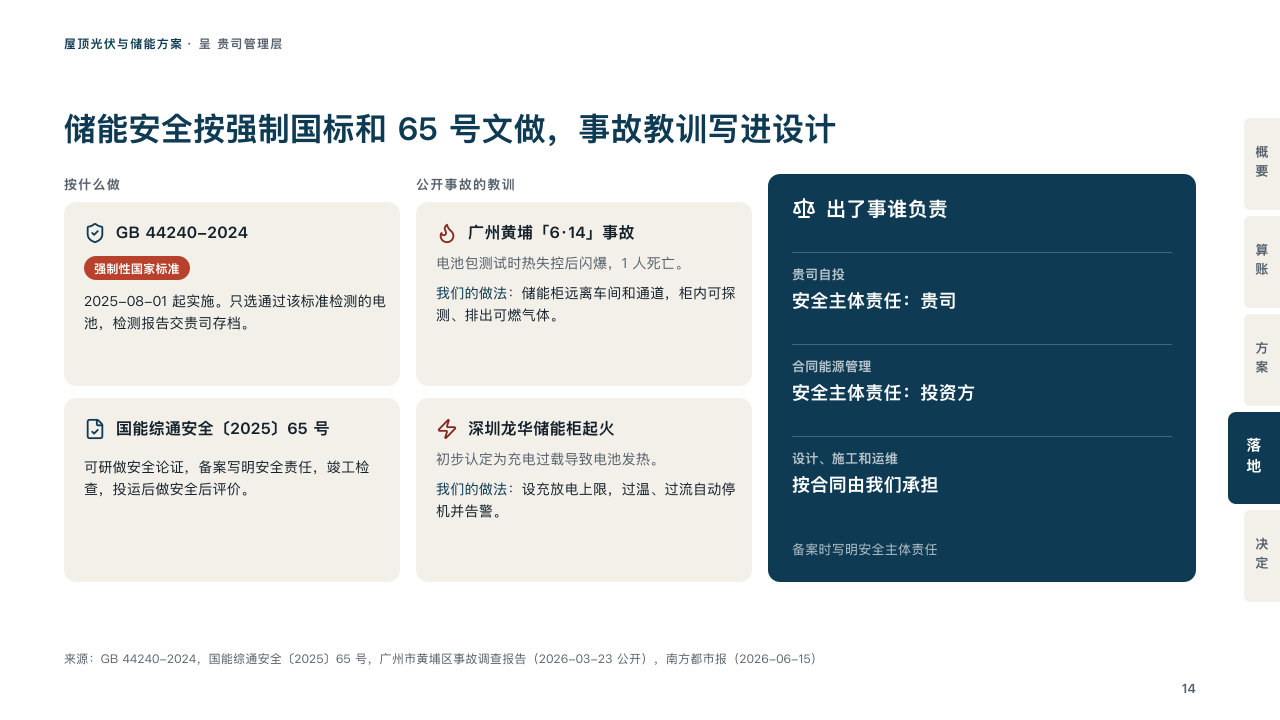
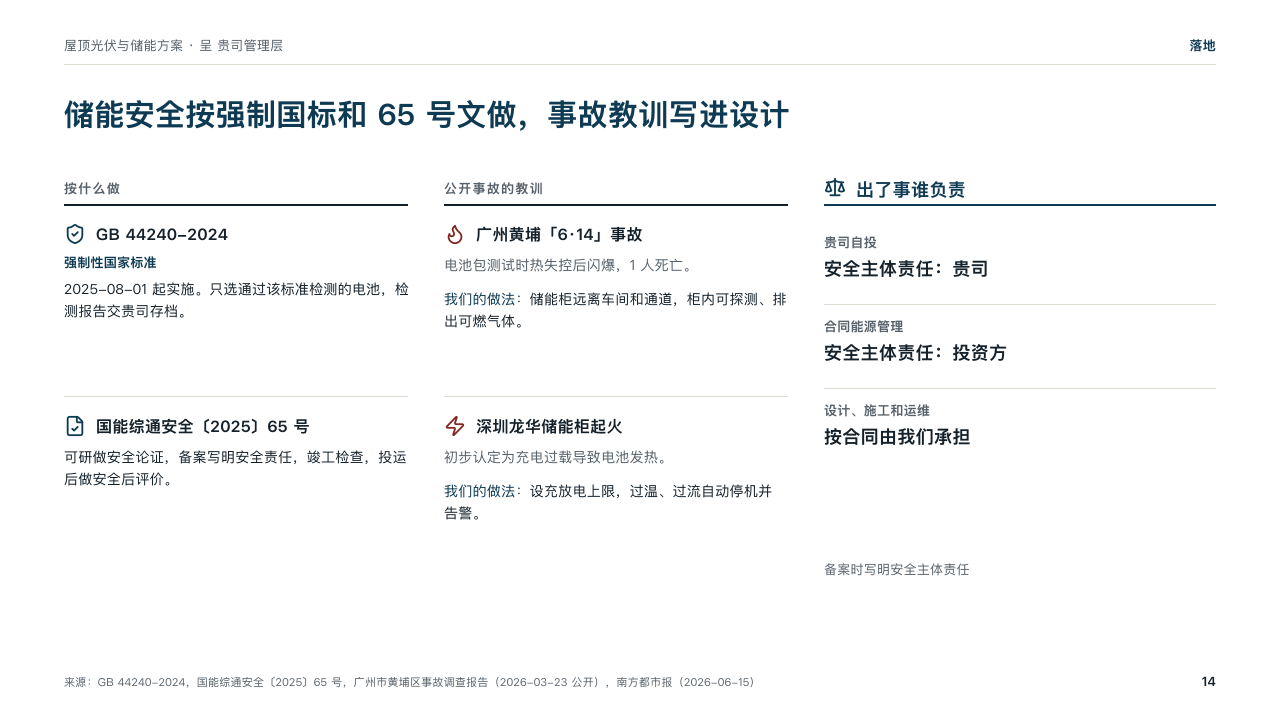
docs(proposal): describe the binder parts as print
The design notes of the binder faces, the proposal motif and the fifteen binder compositions still described the first board: index tabs, sand cards, chips, discs and a brick-red button. They now describe the pages as set: a running head naming the part, ruled tables and columns between hairlines, the kind of source as a small grey column, square boxes and a line to fill in on the close. Each notes that its board is the first round's. The engine screenshots are shot again from the Chinese showcase deck with pptwise preview and rsvg-convert at 1280 by 720.

The round records why shared component cards are white in a hairline. Comments that still named the tabs or a numbered stage are brought in line, with no change to behaviour.

diff --git a/src/audit/svg-audit.ts b/src/audit/svg-audit.ts
@@ -17,7 +17,7 @@ interface Rect extends Box { h: number }
 // The translate and uniform scale of an element's `transform`, the two forms
 // the content layer composes boxes with (bento-card content scale-to-fit,
 // icon scale), reduced to one offset and one scalar. A turn (`rotate`, which
-// stamps, notes and proposal's binder tabs do draw) is not in this
+// stamps and notes do draw) is not in this
 // reduction: `auditSvgMarkup` below walks the whole transform list as an
 // affine map instead, and `deck-audit.ts` sets a shape under any other form
 // apart (`hasUnmodelledTransform`).
@@ -194,7 +194,7 @@ export function auditSvgMarkup(markup: string): OverflowIssue[] {
     // The element's own transform list composed under its parent's, in the
     // SVG order: a component scaled to fit (bento cards) gets correctly
     // scaled text metrics, and a line turned about a point (a stamp, a
-    // binder's tab) is read where it is drawn rather than where it would
+    // name set up an edge) is read where it is drawn rather than where it would
     // stand unturned.
     const m = compose(parent, parseAffine(el))
 

diff --git a/src/audit/svg-audit.test.tsx b/src/audit/svg-audit.test.tsx
@@ -148,10 +148,10 @@ describe("auditSvgMarkup", () => {
     expect(issues[0].kind).toBe("h-overflow")
   })
 
-  // A name set up a binder's tab at the right edge (proposal's Latin tabs)
-  // turns a quarter about its own middle: the line runs down the page, not
-  // across it. Read unturned, "Delivery" ran x=[1227,1288] off a page its
-  // glyphs never leave, on every content page of the English deck.
+  // A name set up the right edge turns a quarter about its own middle: the
+  // line runs down the page, not across it. Read unturned, "Delivery" ran
+  // x=[1227,1288] off a page its glyphs never leave (proposal's English deck
+  // drew such names on its old index tabs).
   it("reads a line turned about a point where it is drawn, down the page", () => {
     const turned = (angle: number) =>
       auditSvgMarkup(wrap(`<g transform="rotate(${angle} 1258 200)"><text x="1258" y="200" font-size="13" text-anchor="middle">Delivery</text></g>`))

diff --git a/src/layouts/ending-binder-ending.tsx b/src/layouts/ending-binder-ending.tsx
@@ -16,7 +16,7 @@ type Paragraph = Extract<Component, { type: "paragraph" }>
  * binder-ending：提案书的结尾，请客户定的事，proposal 2026-10 印刷版定稿（p19）。
  *
  * 顶上和内容页同一行书眉：左端是页面的 `kicker`（deck 的标签，13px 灰），右端
- * 是这一页所在的段落（页面的 `stage`，「五 决定」，石油蓝粗体），下面一条细线。
+ * 是这一页所在的段落（页面的 `stage` 在 `course` 里的名字，「决定」，不带序号，石油蓝粗体），下面一条细线。
  * 标题和内容页的论断同一写法：30px 粗体石油蓝，一行放得下就一行。下面是要客户
  * 定的事（页面的 `numbered_cards`，两到四件），一件一行：上面一条 2px 墨线，
  * 行间发丝线，每行左边砖红两位编号（「01」，28px 粗体），中间这件事 20px 粗体

diff --git a/src/audit/deck-audit.ts b/src/audit/deck-audit.ts
@@ -1698,8 +1698,8 @@ const MODELLED_TRANSFORM_RE = /translate\(\s*-?[\d.]+[\s,]+-?[\d.]+\s*\)|scale\(
  * Whether `el` carries a `transform` this walk does not model.
  * `parseTransform` reduces the whole attribute to `(dx, dy, uniform scale)`
  * and silently ignores everything it doesn't match. The content layer turns
- * only a few lines of text (a stamp, a lesson note, an exhibit label,
- * proposal's binder tabs), which the overflow walk in `svg-audit.ts` reads
+ * only a few lines of text (a stamp, a lesson note, an exhibit label),
+ * which the overflow walk in `svg-audit.ts` reads
  * through its own affine map. Decoration really does rotate shapes:
  * `motif-clinic-motif.tsx`'s `capsule()` emits a filled `<rect>` under
  * `rotate(angle cx cy)` and `motif-almanac-motif.tsx`'s `leafVein()` wraps its

diff --git a/src/layouts/step-aside-boundary.test.tsx b/src/layouts/step-aside-boundary.test.tsx
@@ -192,8 +192,8 @@ const CASES: FaceCase[] = [
   // rally's marquee sheet: the same, in its band x64 to x1216 and y188
   // (under the ticket stub and the claim) to y640.
   { face: "marquee-sheet", Face: MarqueeSheetContent, themeId: "rally", regions: ["face", "declined"] },
-  // proposal's binder sheet: the same, in its band x64 to x1196 and y172
-  // (under the claim, left of the binder's tabs) to y640.
+  // proposal's binder sheet: the same, in its band x64 to x1216 and y176
+  // (under the running head and the claim) to y640.
   { face: "binder-sheet", Face: BinderSheetContent, themeId: "proposal", regions: ["face", "declined"] },
   // thesis's manuscript sheet: the same, in its band x64 to x1216 and y168
   // (under the claim) down to 16px over the notes' rule, or y648 without notes.

diff --git a/design/faces/binder-sheet/README.md b/design/faces/binder-sheet/README.md
@@ -1,19 +1,20 @@
 # binder-sheet
 
-proposal's ordinary content page: the binder's tabs down the right edge with the page's section lit, the claim bold in petrol, the body handed to the shared compositions in the `binder` setting, and the source small at the foot.
+proposal's ordinary content page: a running head naming the part of the deck the page sits in, the claim bold in petrol across the page, the body handed to the shared compositions in the `binder` setting, and the source small at the foot.
 
-Code: [`src/layouts/content-binder-sheet.tsx`](../../../src/layouts/content-binder-sheet.tsx), with the frame (`BinderHead`, `BinderTabsFor`, `BinderStandfirst`, `BinderSource`) in [`src/layouts/binder-shared.tsx`](../../../src/layouts/binder-shared.tsx) and the tabs (`BinderTabs`) in [`src/layouts/compositions/binder.tsx`](../../../src/layouts/compositions/binder.tsx). Used by proposal for every content kind but statement and quote.
+Code: [`src/layouts/content-binder-sheet.tsx`](../../../src/layouts/content-binder-sheet.tsx), with the frame (`BinderHead`, `BinderRunningHead`, `BinderTitle`, `BinderStandfirst`, `BinderSource`) in [`src/layouts/binder-shared.tsx`](../../../src/layouts/binder-shared.tsx). Used by proposal for every content kind but statement and quote.
 
 ## proposal, rooftop solar and storage proposal sample, 2026-10
 
 Settled on every content page. The boards and engine renders are in the composition folders each page links from the round. The round's decisions are in [rounds/2026-10-06-proposal](../../rounds/2026-10-06-proposal/README.md).
 
-**What it looks like.** Down the right edge, from y118 a tab every 98px, the binder's tabs: one a section of the deck's `course`, the page's own section (its `stage`) 52px wide in petrol with its name in white, the others 36px wide on sand with their names in grey. A Chinese name stands one character under another, a Latin name is turned a quarter. The deck's label at the top left and the folio are the motif's. The claim bold at 32/44 in petrol from x64 across 1132px, on one line whenever it fits, its last line ending at y150. A subheading becomes a standfirst at 16/24 in the grey at the body's top. The body runs from y172 to y640 over a source and to y648 without one, and is offered to the compositions in this order: `gains`, `hours`, `regions`, `workings`, `levers`, `cycles`, `drift`, `parts`, `plans`, `precedents`, `safeguards`, `remedies`, `checkpoints`, `quote`, `papers`. A page none of them takes is drawn by the component renderer in the same band. The source at 12/17 in the grey from y650, up to two lines.
+**What it looks like.** Along the top a running head on y36: the deck's label at the left in the grey at 13px (the motif's), and at the right the page's section in petrol bold at 13px, the label of its `stage` in the deck's `course` with no number (「算账」, "Numbers"). A hairline under both on y64 across the measure. The claim bold at 30/42 in petrol from y92 across 1152px, x64 to x1216, on one line whenever it fits, a second line lifting it 20px. A subheading becomes a standfirst at 16/24 in the grey at the body's top. The body runs from y176 to y640 over a source and to y648 without one, and is offered to the compositions in this order: `gains`, `hours`, `regions`, `workings`, `levers`, `cycles`, `drift`, `parts`, `plans`, `precedents`, `safeguards`, `remedies`, `checkpoints`, `quote`, `papers`. A page none of them takes is drawn by the component renderer in the same band, where proposal's tokens keep a card to one white layer inside a hairline with square corners. The source at 11/16 in the grey at the foot's left, its last line on the page number's baseline, y686.
 
-**Why.** A proposal is a binder a client flips through by section. The lit tab says where a page sits before the claim says what it shows.
+**Why.** A printed proposal names its section at the head of every leaf, so a reader who opens it anywhere knows where they are before the claim says what the page shows.
 
 **What it gave up.**
 
-- A page with no `stage`, or a course of more than five sections, carries no tabs, and a course too long for them is declared dropped rather than cut.
+- A page with no `stage`, or a stage the course does not have, leaves the right of the running head empty.
+- The section is named without a number, since a part of the deck may span several stages (the round's decision 17).
 - A page the band cannot hold steps aside to the plain sheet, and is declined when that cannot hold it either.
 - The body takes up to four components.

diff --git a/design/faces/binder-ending/README.md b/design/faces/binder-ending/README.md
@@ -1,6 +1,6 @@
 # binder-ending
 
-proposal's close: the decisions the client is asked to make, each a card with its own boxes, and one brick-red button with the author's words.
+proposal's close: the decisions the client is asked to make, each a ruled row with its own boxes to tick, and a line to fill in for the next step.
 
 Code: [`src/layouts/ending-binder-ending.tsx`](../../../src/layouts/ending-binder-ending.tsx).
 
@@ -12,12 +12,14 @@ Settled on p19. The round's decisions are in [rounds/2026-10-06-proposal](../../
 | :-: | :-: |
 | ![board](proposal.board.png) | ![engine](proposal.engine.png) |
 
-**What it looks like.** The deck's label at the top left (the page's `kicker`) and the tabs with the last section lit. The closing line at 44/60 bold in petrol, its last line ending at y156. Under it the page's `numbered_cards` as two to four cards of sand across the measure, each with its number in the brick red (「01」), the decision at 21/32 bold in two lines at most, a line on it in two lines of 14px grey, a hairline, and a box to tick for each choice of the page's `ballot` (「同意」, 「再议」), or the item's own choices where `ballot.item_choices` gives it some (「自投」, 「EMC」, 「融资租赁」). At the foot a button of the brick red with the page's `paragraph` in bold white (「约踏勘时间」), and the subheading beside it at 16px in the grey.
+The board in the table is the first round's. The print round redrew this page in a design tool outside this folder, and the engine render shows the page as it is set now.
 
-**Why.** A proposal ends on what the client decides. A box per choice makes the decision a mark on the page, and the button is the next step in the author's own words.
+**What it looks like.** The running head as on a content page: the page's `kicker` (the deck's label) at the left at 13px in the grey, the page's section at the right in petrol bold, a hairline under both. The closing line at 30/42 bold in petrol, on one line whenever it fits. Under it the page's `numbered_cards`, two to four decisions, a ruled row each under a 2px ink rule with hairlines between: its number in two digits at 28px bold in the brick red (「01」), the decision at 20px bold with a line on it at 14px in the grey, and at the right an empty square box, 18px with a 1.5px ink outline, for each choice of the page's `ballot` (「同意」, 「再议」), or the item's own choices where `ballot.item_choices` gives it some (「自投」, 「EMC」, 「融资租赁」), each at 16px. Under the rows the page's `paragraph` as a line to fill in: the words before the first blank at 18px bold in petrol, each run of 「＿」 (two or more) a line to write on, the words between at 16px in the ink (「约踏勘时间 ＿＿＿ 年 ＿＿ 月 ＿＿ 日」). A paragraph with no blanks gets one line after its words. The subheading under it at 14px in the grey.
+
+**Why.** A proposal ends on what the client decides. A box per choice makes the decision a mark on the paper, and the line to fill in is the next step in the author's own words, set the way a printed form asks for it.
 
 **What it gave up.**
 
-- No button without a `paragraph`: the face never writes its own words on it.
-- A ballot whose `item_choices` names a card the page does not have, or a signature line, is declared dropped.
+- No line to fill in without a `paragraph`: the face never writes its own words for it.
+- A ballot whose `item_choices` names a decision the page does not have, or a signature line, is declared dropped.
 - No motif and no folio. The board printed 「19」 at the foot.

diff --git a/design/compositions/precedents/README.md b/design/compositions/precedents/README.md
@@ -1,6 +1,6 @@
 # precedents
 
-Public records a client can check, a bar a record with the kind of source behind its figure.
+Public records a client can check, a ruled row a record with the kind of source behind its figure.
 
 Code: [`src/layouts/compositions/precedents.tsx`](../../../src/layouts/compositions/precedents.tsx). The header comment there is the contract. The binder setting only.
 
@@ -12,11 +12,13 @@ Settled on the public references page (p13). The round's decisions are in [round
 | :-: | :-: |
 | ![board](proposal.board.png) | ![engine](proposal.engine.png) |
 
-**What it looks like.** Over the rows the table's title as a chip outlined in petrol (「均非我方项目」, whose they are not). A row a record on a bar of sand: its icon in a white disc, its name bold over its scale in grey, its figure at 18px in petrol and the kind of source the figure is as a white chip at the right. The record the page leans on (a row marked `highlight`) has a brick-red edge at its left and its chip in the brick red. Under the rows, a line with a grey icon on what the records do not show.
+The board in the table is the first round's. The print round redrew this page in a design tool outside this folder, and the engine render shows the page as it is set now.
 
-**Why.** A supplier's own references are what a client trusts least. Public records, each tagged with who reported the figure and said plainly not to be the supplier's own, are ones the client can look up.
+**What it looks like.** A ruled table: the headers in small grey over a 2px rule of the ink (the table's title heads the name column when that column has no header of its own, 「项目（均非我方项目）」), a row a record under a hairline: its icon in petrol, its name bold over its scale in grey, its figure at 17px with its numbers bold, and the kind of source the figure is in small grey in a column of its own (the table's fourth column, 「口径」, or the row's tag). A 2px rule of the ink closes the table. The record the page leans on (a row marked `highlight`) has its icon, its numbers and its kind of source in bold brick red, on no ground of its own. Under the table, a line after a grey icon on what the records do not show.
+
+**Why.** A supplier's own references are what a client trusts least. Public records, each with who reported the figure and said plainly not to be the supplier's own, are ones the client can look up.
 
 **What it gave up.**
 
-- Takes a `data_table` with a title, three columns with no headers (the name, the scale, the figure), two to six rows each with an icon and a tag, at most one marked `highlight`, no total, then optionally a `callout` with no title or tag.
-- A name, scale or figure past its column, a chip past the row's end or a line past one line sends the page back.
+- Takes a `data_table` of three columns (the name, the scale, the figure), each row with a tag, or of four (the kind of source last), two to six rows each with an icon, at most one marked `highlight`, no total, and a title only when the name column has no header, then optionally a `callout` with no tag.
+- A header, name, scale, figure or kind past its column, or a line past one line sends the page back.

diff --git a/design/compositions/plans/README.md b/design/compositions/plans/README.md
@@ -1,6 +1,6 @@
 # plans
 
-The ways a client can pay, as cards with what each saves.
+The ways a client can pay, in columns with what each saves.
 
 Code: [`src/layouts/compositions/plans.tsx`](../../../src/layouts/compositions/plans.tsx). The header comment there is the contract. The binder setting only.
 
@@ -12,12 +12,14 @@ Settled on the funding models page (p12). The round's decisions are in [rounds/2
 | :-: | :-: |
 | ![board](proposal.board.png) | ![engine](proposal.engine.png) |
 
-**What it looks like.** A card of sand a way to pay: its name at 21px in petrol, who it suits in small grey and, after a " · ", a part marked whole as a chip of the brick red under it (「贵司出资 0 元」). Then the marked row's label in small grey over its figure at 34px in petrol (28px for a figure of nine characters or more), with the part after a " · " as a line under it. Then each labelled row under a hairline as its label in small grey over its value at 14px bold. Under the cards, a bar of the pale petrol with the note's icon and two lines.
+The board in the table is the first round's. The print round set this page by the redrawn board's rules, and the engine render shows the page as it is set now.
 
-**Why.** Who pays decides who owns the equipment and who keeps the savings. Setting each way on its own card, with the same rows in the same places, lets the finance lead pick by reading across.
+**What it looks like.** A column a way to pay, the columns under a hairline and parted by hairlines: its name at 21px in petrol, who it suits in small grey and, after a " · ", a part marked whole under it in bold brick red (「贵司出资 0 元」). Then the marked row's label in small grey over its figure at 34px in petrol (28px for a figure of nine characters or more), with the part after a " · " as a line under it. Then each labelled row under a hairline as its label in small grey over its value at 14px bold. Under the columns, the note as up to two lines after its grey icon.
+
+**Why.** Who pays decides who owns the equipment and who keeps the savings. Setting each way in its own column, with the same rows in the same places, lets the finance lead pick by reading across.
 
 **What it gave up.**
 
 - Takes a `comparison` of two to four columns with no title, label column, tags, icons or recommendation, its rows in this order: optionally a row with no label (who each suits), the marked row (the figures), then one to three labelled rows, then optionally a `callout` with no title or tag.
 - The " · " is declared, not printed.
-- A name past one line, any line past its card, a figure wider than its card or a note past two lines sends the page back.
+- A name past one line, any line past its column, a figure wider than its column or a note past two lines sends the page back.

diff --git a/design/compositions/regions/README.md b/design/compositions/regions/README.md
@@ -1,6 +1,6 @@
 # regions
 
-Places set side by side as cards, each with the figure a page is about.
+Places set side by side in columns, each with the figure a page is about.
 
 Code: [`src/layouts/compositions/regions.tsx`](../../../src/layouts/compositions/regions.tsx). The header comment there is the contract. The binder setting only.
 
@@ -12,11 +12,13 @@ Settled on the three provinces page (p05). The round's decisions are in [rounds/
 | :-: | :-: |
 | ![board](proposal.board.png) | ![engine](proposal.engine.png) |
 
-**What it looks like.** A card of sand a place: its name at 24px in petrol, the document under it in small grey, a hairline, then each labelled row as its label in small grey over its value at 16px bold, and the marked row as its label over a figure at 36px in petrol, an aside in brackets on that figure set beside it as a grey chip (「约 0.76（示意）」). Last, the closing row as a verdict chip a card, petrol on the sky's tint, the one marked whole in the brick red. Under the cards, the note as a block of petrol with its icon, its title bold and its text in white.
+The board in the table is the first round's. The print round set this page by the redrawn board's rules, and the engine render shows the page as it is set now.
 
-**Why.** The same rule reads differently by place. One card each, with the figure in the same spot, lets the reader compare across without a table.
+**What it looks like.** A column a place, the columns under a hairline and parted by hairlines: its name at 24px in petrol, the document under it in small grey, a hairline, then each labelled row as its label in small grey over its value at 16px bold, and the marked row as its label over a figure at 36px in petrol, an aside in brackets on that figure set after it in small grey (「约 0.76（示意）」). Last, the closing row as a verdict a column, bold in petrol, the one marked whole in the brick red. Under the columns, the note as a line after its grey icon, its title bold before its text.
+
+**Why.** The same rule reads differently by place. One column each, with the figure in the same spot, lets the reader compare across without boxing every place.
 
 **What it gave up.**
 
 - Takes a `comparison` of two to four columns with no title, label column, tags, icons or recommendation, optionally a first row with no label, one to three labelled rows with exactly one marked, optionally a last row with no label, at most one of whose cells is marked whole, then optionally a `callout` with a title and no tag.
-- A name past one line, a line, label or value past its card, a verdict wider than its card or a note past two lines sends the page back.
+- A name past one line, a line, label or value past its column, a verdict past one line or a note past two lines sends the page back.

diff --git a/design/compositions/workings/README.md b/design/compositions/workings/README.md
@@ -12,7 +12,9 @@ Settled on the per-MW sum page (p06), the page a proposal is judged on. The roun
 | :-: | :-: |
 | ![board](proposal.board.png) | ![engine](proposal.engine.png) |
 
-**What it looks like.** At the left the inputs as a ruled table under a 2px rule of petrol: each input's symbol in a petrol disc (「E」, 「p」, 「O」, 「I」), its name bold over how it is reached in small grey, its value at 20px in petrol to the right, and what kind of source it rests on as an outlined chip. At the right a card with what is worked out, the formula in italic, the figures put in and the result at 40px in petrol, and under it the answer the page lands on as a block of the brick red, its result at 60px in white. Under both, a line under a hairline saying what the sum leaves out.
+The board in the table is the first round's. The print round redrew this page in a design tool outside this folder, and the engine render shows the page as it is set now.
+
+**What it looks like.** At the left the inputs as a ruled table: the column headers in small grey over a 2px rule of the ink, a row an input under a hairline, its symbol in italic petrol before its name bold (「E」, 「p」, 「O」, 「I」), how it is reached in grey, its value bold to the right, and what kind of source it rests on in small grey in a column of its own (「来源」). At the right the working, two figures under each other parted by a hairline: what is worked out in grey, the figure at 52px in petrol with its unit after it, and the formula in italic with the figures put in after " = ". The answer the page lands on under them at 72px in the brick red. Under both, a line after a grey icon saying what the sum leaves out.
 
 **Why.** A finance lead checks a proposal by redoing its sum. Every input with its source and every step of the working on one page lets them do it without asking.
 
@@ -21,4 +23,4 @@ Settled on the per-MW sum page (p06), the page a proposal is judged on. The roun
 - Takes a `data_table` of four columns (the name, how it is reached with an empty header, the value aligned right, the kind of source) and two to four rows, each name led by a one-letter symbol and a space, a `kpi_cards` of two whose notes are written "formula = figures", the second marked whole, and optionally a `callout` with no title or tag.
 - The symbol's space and the " = " are declared on the lines they end, not printed.
 - The formula is set in the theme's font in italic. The board set it in Georgia, which the deck does not carry.
-- A cell past its column, a formula, figures or result past its card, or a line past one line sends the page back.
+- A cell past its column, a formula, figures or result past its column, or a line past one line sends the page back.

diff --git a/design/compositions/quote/README.md b/design/compositions/quote/README.md
@@ -1,6 +1,6 @@
 # quote
 
-A price list set as one sheet, with the amounts left to fill after the survey.
+A price list set as one ruled table, with the amounts left to fill after the survey.
 
 Code: [`src/layouts/compositions/quote.tsx`](../../../src/layouts/compositions/quote.tsx). The header comment there is the contract. The binder setting only.
 
@@ -12,7 +12,9 @@ Settled on the pricing page (p17). The round's decisions are in [rounds/2026-10-
 | :-: | :-: |
 | ![board](proposal.board.png) | ![engine](proposal.engine.png) |
 
-**What it looks like.** One framed sheet with its column headers on a band of sand, then each table a group: its title as a small tracked line in petrol, its rows under it, each with its icon in petrol, its item bold, what it covers, how it is priced bold and its amount. An amount still to be set (「— — —」) is a blank to fill in a grey with air between the dashes. The row the page leads with sits on the brick red's tint, its tag a chip of the brick red after what it covers.
+The board in the table is the first round's. The print round set this page by the redrawn board's rules, and the engine render shows the page as it is set now.
+
+**What it looks like.** One ruled table: its column headers in small grey over a 2px ink rule, then each table a group: its title as a small tracked line in petrol, its rows under it parted by hairlines, each with its icon in petrol, its item bold, what it covers, how it is priced bold and its amount. An amount still to be set (「— — —」) is a blank to fill in a grey with air between the dashes. The row the page leads with has its icon and its tag, bold after what it covers, in the brick red, on the paper like the rest. A 2px ink rule under the last row.
 
 **Why.** A quote before a survey cannot have prices. Listing every line by the industry's own cost breakdown, with the blanks left visibly blank, shows what the price will be made of and that nothing is hidden.
 
@@ -20,4 +22,4 @@ Settled on the pricing page (p17). The round's decisions are in [rounds/2026-10-
 
 - Takes two to four `data_table`s, each with a title, the same three or four columns and one to five rows, each row with an icon, a tag only on the one row marked `highlight`, eight rows at most in all.
 - The blanks are a grey that reads at 4.5:1. The board's paler dashes read at 2:1.
-- Tables whose columns differ, a cell past its column, a group title past one line or a sheet taller than the band sends the page back.
+- Tables whose columns differ, a cell past its column, a tag past the column of what its row covers, a group title past one line or a table taller than the band sends the page back.
